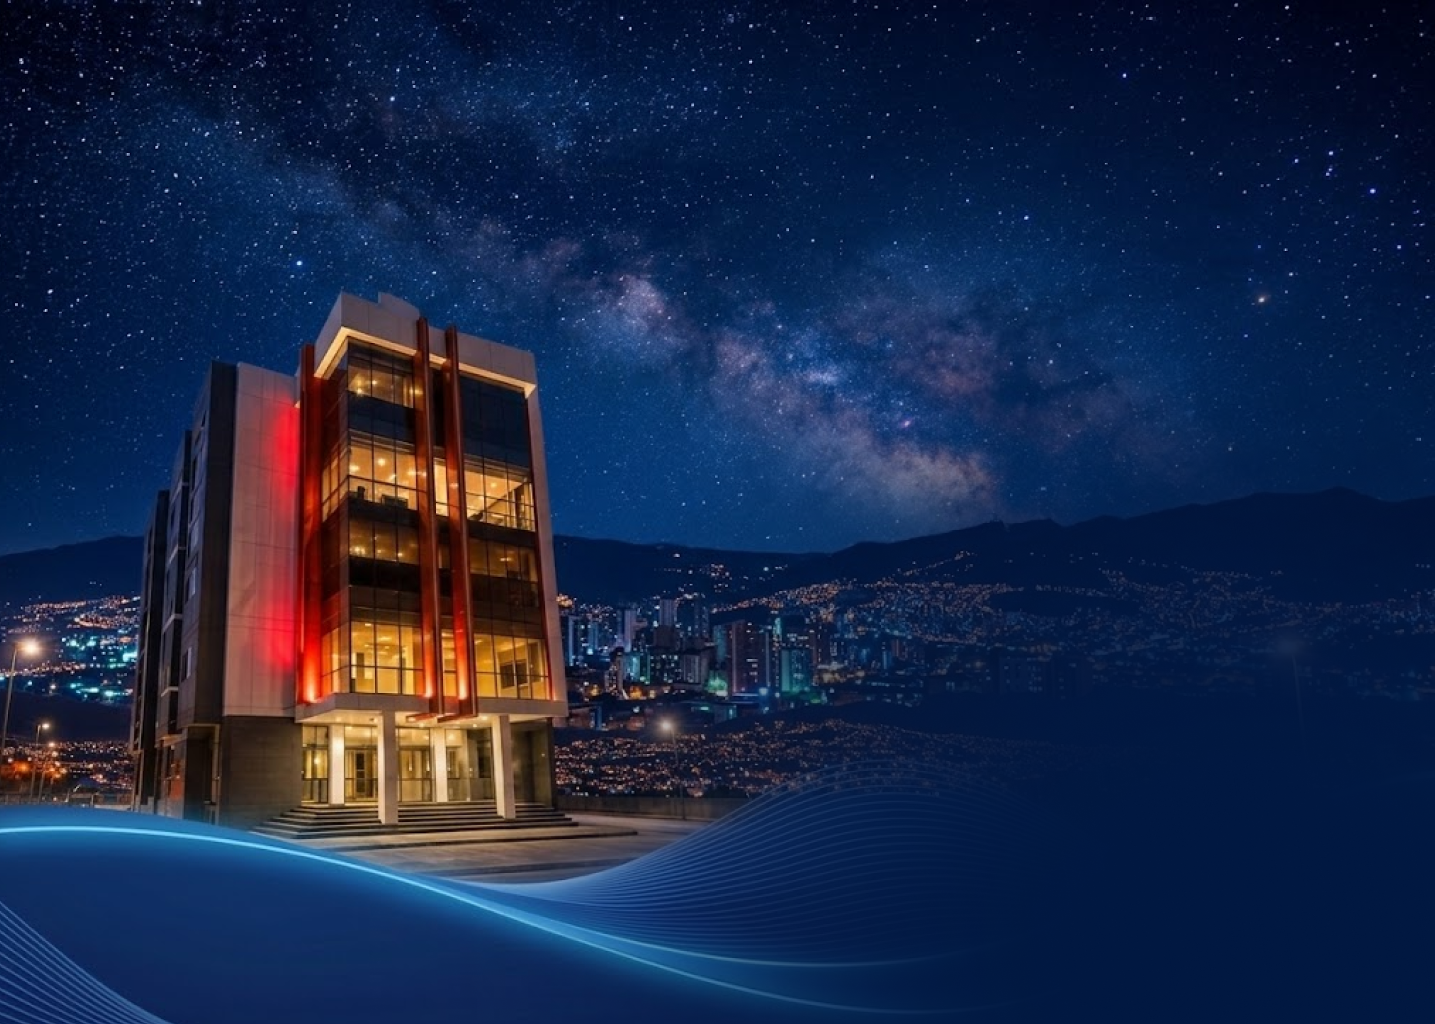
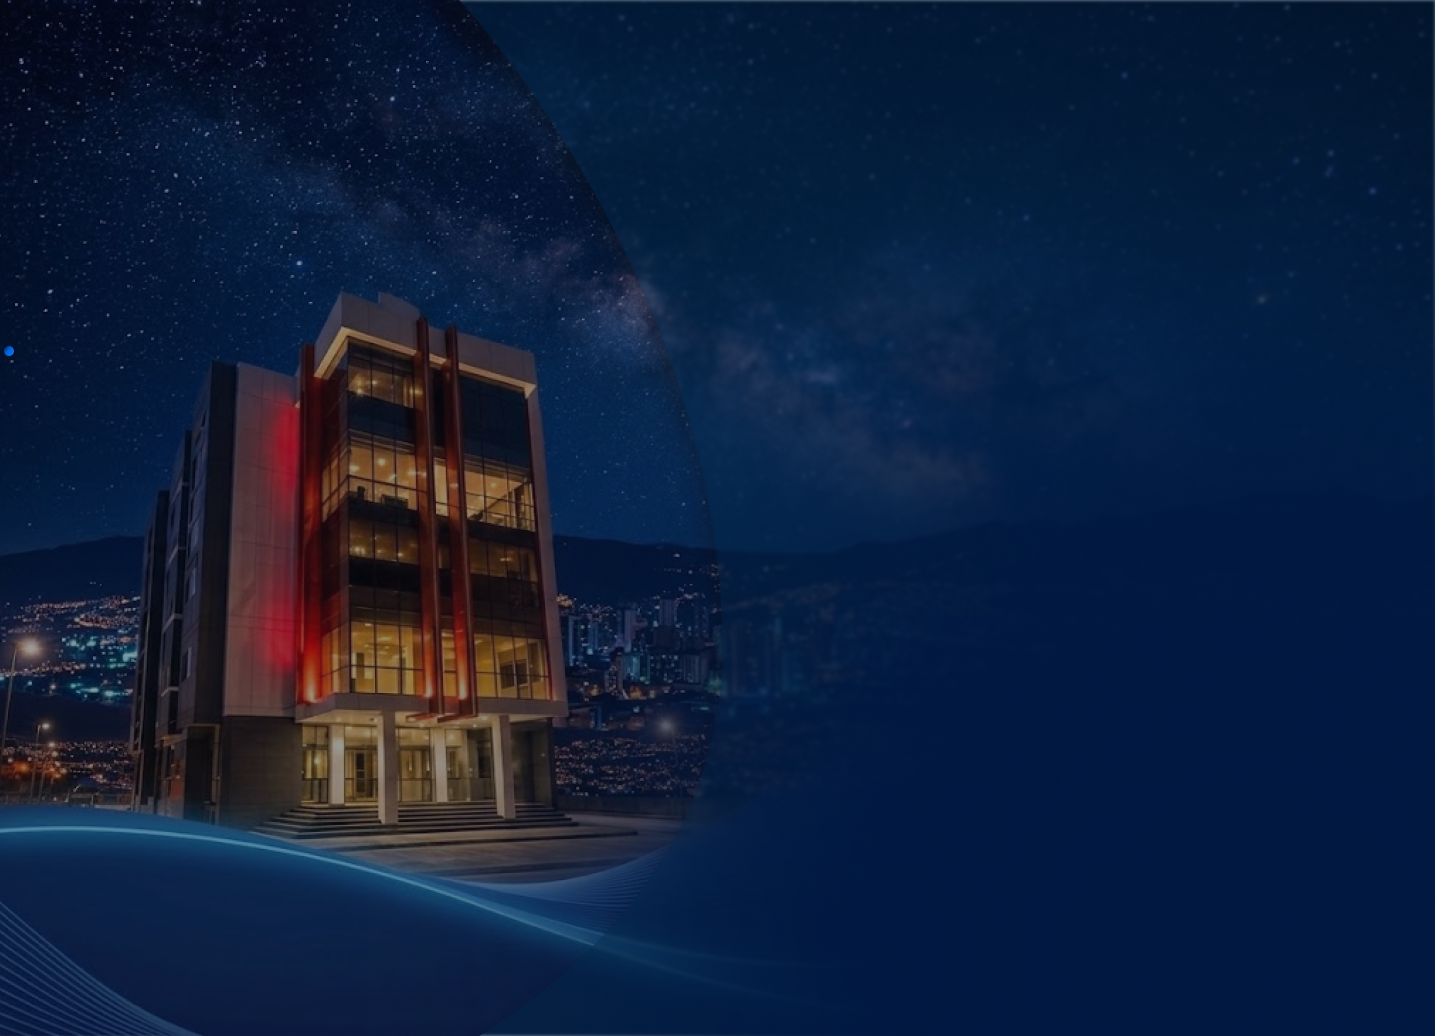
feat: con el nuevo stylo en el login

diff --git a/src/login/pages/login/Form.tsx b/src/login/pages/login/Form.tsx
@@ -12,6 +12,7 @@ import { useState } from "react";
 import { assert } from "tsafe/assert";
 import { PasswordVisibilityButton } from "../../components/PasswordVisibilityButton";
 import { useI18n } from "../../i18n";
+import { User, Lock, ArrowRight } from "lucide-react";
 
 export function Form() {
     const { kcContext } = useKcContext();
@@ -26,10 +27,40 @@ export function Form() {
 
     const { kcClsx } = useKcClsx();
 
+    const usernameLabel = !kcContext.realm.loginWithEmailAllowed
+        ? msg("username")
+        : !kcContext.realm.registrationEmailAsUsername
+            ? msg("usernameOrEmail")
+            : msg("email");
+
+    const usernamePlaceholderText = showPlaceholder
+        ? !kcContext.realm.loginWithEmailAllowed
+            ? msgStr("usernamePlaceholder")
+            : !kcContext.realm.registrationEmailAsUsername
+                ? msgStr("usernameOrEmailPlaceholder")
+                : msgStr("emailPlaceholder")
+        : usernameLabel;
+
     return (
         <>
             <div id="kc-form">
                 <div id="kc-form-wrapper">
+                    {/* Encabezado con Icono e Interfaz de la imagen */}
+                    <div className="flex flex-col items-center mb-6 text-center">
+                        <div className="relative flex items-center justify-center w-16 h-16 mb-3 rounded-full bg-blue-500/10 text-[#1E4883] border border-blue-200/50 shadow-sm">
+                            <div className="absolute inset-0 rounded-full border border-blue-400/20 scale-125 pointer-events-none" />
+                            <div className="absolute inset-0 rounded-full border border-blue-400/30 scale-110 pointer-events-none" />
+                            <User className="w-8 h-8 text-[#1E4883]" />
+                        </div>
+                        <h2 className="text-2xl font-bold text-slate-900 dark:text-white tracking-tight">
+                            Inicia sesión
+                        </h2>
+                        <div className="w-8 h-0.5 bg-amber-400/80 my-2 rounded-full" />
+                        <p className="text-xs text-slate-600 dark:text-slate-300 font-medium">
+                            Accede a tu cuenta institucional
+                        </p>
+                    </div>
+
                     {kcContext.realm.password && (
                         <form
                             id="kc-form-login"
@@ -41,83 +72,40 @@ export function Form() {
                             method="post"
                             className="space-y-4"
                         >
+                            {/* Campo Usuario / Correo */}
                             {!kcContext.usernameHidden && (
                                 <Field>
-                                    <FieldLabel htmlFor="username">
-                                        {!kcContext.realm.loginWithEmailAllowed
-                                            ? msg("username")
-                                            : !kcContext.realm.registrationEmailAsUsername
-                                                ? msg("usernameOrEmail")
-                                                : msg("email")}
+                                    <FieldLabel htmlFor="username" className="sr-only">
+                                        {usernameLabel}
                                     </FieldLabel>
-                                    <Input
-                                        type="text"
-                                        id="username"
-                                        defaultValue={kcContext.login.username ?? ""}
-                                        name="username"
-                                        autoFocus
-                                        placeholder={showPlaceholder ?
-                                            !kcContext.realm.loginWithEmailAllowed
-                                                ? msgStr("usernamePlaceholder")
-                                                : !kcContext.realm.registrationEmailAsUsername
-                                                    ? msgStr("usernameOrEmailPlaceholder")
-                                                    : msgStr("emailPlaceholder") : undefined}
-                                        autoComplete={kcContext.enableWebAuthnConditionalUI ? "username webauthn" : "username"}
-                                        aria-invalid={kcContext.messagesPerField.existsError(
-                                            "username",
-                                            "password"
-                                        )}
-                                    />
+                                    
+                                    <InputGroup className="bg-white/70 dark:bg-slate-800/70 border border-white/80 dark:border-white/20 rounded-2xl h-12 shadow-sm focus-within:ring-2 focus-within:ring-blue-500/50 transition-all">
+                                        <InputGroupAddon align="inline-start" className="pl-4 text-slate-500">
+                                            <User className="w-5 h-5" />
+                                        </InputGroupAddon>
+                                        <InputGroupInput
+                                            type="text"
+                                            id="username"
+                                            defaultValue={kcContext.login.username ?? ""}
+                                            name="username"
+                                            autoFocus
+                                            placeholder={usernamePlaceholderText}
+                                            autoComplete={kcContext.enableWebAuthnConditionalUI ? "username webauthn" : "username"}
+                                            aria-invalid={kcContext.messagesPerField.existsError(
+                                                "username",
+                                                "password"
+                                            )}
+                                            className="bg-transparent border-0 focus:ring-0 focus-visible:ring-0 text-sm placeholder:text-slate-400"
+                                        />
+                                    </InputGroup>
+
                                     {kcContext.messagesPerField.existsError(
                                         "username",
                                         "password"
                                     ) && (
-                                            <FieldError>
-                                                <span
-                                                    id="input-error-username"
-                                                    aria-live="polite"
-                                                    dangerouslySetInnerHTML={{
-                                                        __html: kcSanitize(
-                                                            kcContext.messagesPerField.getFirstError(
-                                                                "username",
-                                                                "password"
-                                                            )
-                                                        )
-                                                    }}
-                                                />
-                                            </FieldError>
-                                        )}
-                                </Field>
-                            )}
-
-                            <Field>
-                                <FieldLabel htmlFor="password">
-                                    {msg("password")}
-                                </FieldLabel>
-                                <InputGroup>
-                                    <InputGroupInput
-                                        type="password"
-                                        id="password"
-                                        name="password"
-                                        autoComplete="current-password"
-                                        placeholder={showPlaceholder ? msgStr("passwordPlaceholder") : undefined}
-                                        aria-invalid={kcContext.messagesPerField.existsError(
-                                            "username",
-                                            "password"
-                                        )}
-                                    />
-                                    <InputGroupAddon align="inline-end" >
-                                        <PasswordVisibilityButton
-                                            passwordInputId="password" />
-                                    </InputGroupAddon>
-                                </InputGroup>
-                                {kcContext.messagesPerField.existsError(
-                                    "username",
-                                    "password"
-                                ) && (
                                         <FieldError>
                                             <span
-                                                id="input-error-password"
+                                                id="input-error-username"
                                                 aria-live="polite"
                                                 dangerouslySetInnerHTML={{
                                                     __html: kcSanitize(
@@ -130,45 +118,98 @@ export function Form() {
                                             />
                                         </FieldError>
                                     )}
+                                </Field>
+                            )}
+
+                            {/* Campo Contraseña */}
+                            <Field>
+                                <FieldLabel htmlFor="password" className="sr-only">
+                                    {msg("password")}
+                                </FieldLabel>
+                                <InputGroup className="bg-white/70 dark:bg-slate-800/70 border border-white/80 dark:border-white/20 rounded-2xl h-12 shadow-sm focus-within:ring-2 focus-within:ring-blue-500/50 transition-all">
+                                    <InputGroupAddon align="inline-start" className="pl-4 text-slate-500">
+                                        <Lock className="w-5 h-5" />
+                                    </InputGroupAddon>
+                                    <InputGroupInput
+                                        type="password"
+                                        id="password"
+                                        name="password"
+                                        autoComplete="current-password"
+                                        placeholder={showPlaceholder ? msgStr("passwordPlaceholder") : msg("password")}
+                                        aria-invalid={kcContext.messagesPerField.existsError(
+                                            "username",
+                                            "password"
+                                        )}
+                                        className="bg-transparent border-0 focus:ring-0 focus-visible:ring-0 text-sm placeholder:text-slate-400"
+                                    />
+                                    <InputGroupAddon align="inline-end" className="pr-2">
+                                        {/* Ondas concéntricas sobre el botón de ver contraseña */}
+                                        <div className="relative flex items-center justify-center p-1">
+                                            <div className="absolute inset-0 rounded-full border border-blue-400/20 scale-125 pointer-events-none" />
+                                            <div className="absolute inset-0 rounded-full border border-blue-400/30 scale-110 pointer-events-none" />
+                                            <PasswordVisibilityButton passwordInputId="password" />
+                                        </div>
+                                    </InputGroupAddon>
+                                </InputGroup>
+
+                                {kcContext.messagesPerField.existsError(
+                                    "username",
+                                    "password"
+                                ) && (
+                                    <FieldError>
+                                        <span
+                                            id="input-error-password"
+                                            aria-live="polite"
+                                            dangerouslySetInnerHTML={{
+                                                __html: kcSanitize(
+                                                    kcContext.messagesPerField.getFirstError(
+                                                        "username",
+                                                        "password"
+                                                    )
+                                                )
+                                            }}
+                                        />
+                                    </FieldError>
+                                )}
                             </Field>
 
-                            <div className="space-y-1 flex justify-between text-xs">
+                            {/* Recordar Sesión & Olvidaste tu contraseña */}
+                            <div className="flex items-center justify-between text-xs pt-1">
                                 {kcContext.realm.rememberMe &&
                                     !kcContext.usernameHidden && (
-                                        <div className="flex items-center space-x-2 ">
+                                        <div className="flex items-center space-x-2">
                                             <Checkbox
                                                 id="rememberMe"
                                                 name="rememberMe"
                                                 defaultChecked={
                                                     !!kcContext.login.rememberMe
                                                 }
+                                                className="rounded-md border-blue-600 data-[state=checked]:bg-[#2D61A6] data-[state=checked]:border-[#2D61A6]"
                                             />
-
                                             <Label
                                                 htmlFor="rememberMe"
-                                                className="text-sm font-medium cursor-pointer"
+                                                className="text-xs font-semibold text-slate-700 dark:text-slate-200 cursor-pointer select-none"
                                             >
                                                 {msg("rememberMe")}
                                             </Label>
                                         </div>
                                     )}
-                                <div className="link-style ">
+
+                                <div className="link-style ml-auto">
                                     {kcContext.realm.resetPasswordAllowed && (
-                                        <span className=" underline-offset-4 hover:underline">
-                                            <a
-                                                href={
-                                                    kcContext.url.loginResetCredentialsUrl
-                                                }
-                                            >
-                                                <Label className="text-sm font-medium cursor-pointer">
-                                                    {msg("doForgotPassword")}
-                                                </Label>
-                                            </a>
-                                        </span>
+                                        <a
+                                            href={kcContext.url.loginResetCredentialsUrl}
+                                            className="text-amber-700 dark:text-amber-500 font-medium hover:underline"
+                                        >
+                                            <Label className="text-xs font-semibold cursor-pointer text-amber-700 dark:text-amber-500">
+                                                {msg("doForgotPassword")}
+                                            </Label>
+                                        </a>
                                     )}
                                 </div>
                             </div>
 
+                            {/* Input oculto y Botón Principal */}
                             <div className={kcClsx("kcFormGroupClass")}>
                                 <input
                                     type="hidden"
@@ -179,13 +220,16 @@ export function Form() {
 
                                 <Button
                                     disabled={isLoginButtonDisabled}
-                                    className="w-full"
+                                    className="w-full h-12 bg-gradient-to-r from-[#2B60A5] to-[#1E4883] hover:from-[#234F88] hover:to-[#173766] text-white font-medium shadow-lg rounded-2xl px-6 flex items-center justify-between transition-all duration-200"
                                     name="login"
                                     id="kc-login"
                                     type="submit"
                                     value={msgStr("doLogIn")}
                                 >
-                                    {msgStr("doLogIn")}
+                                    <span className="w-full text-center pl-6 font-semibold text-base">
+                                        {msgStr("doLogIn")}
+                                    </span>
+                                    <ArrowRight className="w-5 h-5 shrink-0" />
                                 </Button>
                             </div>
                         </form>
@@ -193,15 +237,17 @@ export function Form() {
                 </div>
             </div>
 
-            {kcContext.enableWebAuthnConditionalUI && <WebAuthnConditionalUI
-                isUserIdentified={kcContext.isUserIdentified}
-                challenge={kcContext.challenge}
-                rpId={kcContext.rpId}
-                userVerification={kcContext.userVerification}
-                createTimeout={kcContext.createTimeout}
-                authenticators={kcContext.authenticators?.authenticators}
-                loginAction={kcContext.url.loginAction}
-            />}
+            {kcContext.enableWebAuthnConditionalUI && (
+                <WebAuthnConditionalUI
+                    isUserIdentified={kcContext.isUserIdentified}
+                    challenge={kcContext.challenge}
+                    rpId={kcContext.rpId}
+                    userVerification={kcContext.userVerification}
+                    createTimeout={kcContext.createTimeout}
+                    authenticators={kcContext.authenticators?.authenticators}
+                    loginAction={kcContext.url.loginAction}
+                />
+            )}
         </>
     );
 }

diff --git a/src/login/components/Template/TemplateContent.tsx b/src/login/components/Template/TemplateContent.tsx
@@ -96,31 +96,7 @@ export function TemplateContent(props: TemplateContentProps) {
                 cardClassName
             )}
         >
-            {/* Avatar Central con Ondas Concéntricas */}
-            <div className="flex justify-center mb-4">
-                <div className="relative flex items-center justify-center p-3">
-                    {/* Anillos de ondas suaves detrás del avatar */}
-                    <div className="absolute inset-0 rounded-full border border-blue-400/20 scale-125" />
-                    <div className="absolute inset-0 rounded-full border border-blue-400/30 scale-110" />
-
-                    {/* Círculo blanco translúcido principal */}
-                    <div className="relative z-10 w-20 h-20 rounded-full bg-white/90 dark:bg-slate-800/90 shadow-md border border-white flex items-center justify-center text-[#1d4ed8]">
-                        <User className="w-10 h-10 stroke-[2.2]" />
-                    </div>
-                </div>
-            </div>
-
-            <CardHeader className="p-0 text-center mb-6">
-                <div className="flex flex-col items-center">
-                    {titleNode}
-                    {/* Línea decorativa dorada inferior */}
-                    <div className="w-8 h-[3px] bg-[#d97706] rounded-full mt-2 mb-2" />
-                </div>
-
-                <p className="text-xs font-normal text-slate-600 dark:text-slate-300">
-                    Accede a tu cuenta institucional
-                </p>
-            </CardHeader>
+         
 
             <CardContent className="p-0">
                 <div id="kc-content" className="flex flex-col gap-4">

diff --git a/src/login/components/Template/Template.tsx b/src/login/components/Template/Template.tsx
@@ -112,9 +112,7 @@ export function Template(props: TemplateProps) {
                             logoWhiteUrl={logoWhiteUrl}
                             logoDarkUrl={logoDarkUrl}
                             brandingVisibilityClassName="lg:hidden"
-                            /* Efecto Cristal (Glassmorphism) con borde blanco traslúcido y desenfoque */
-                            cardClassName="backdrop-blur-md bg-white/70 dark:bg-slate-900/60 rounded-3xl p-8 border border-white/60 dark:border-white/20 shadow-[0_20px_50px_rgba(0,0,0,0.15)] backdrop-saturate-150 w-full"
-                        />
+                               />
                     }
                 />
             );
